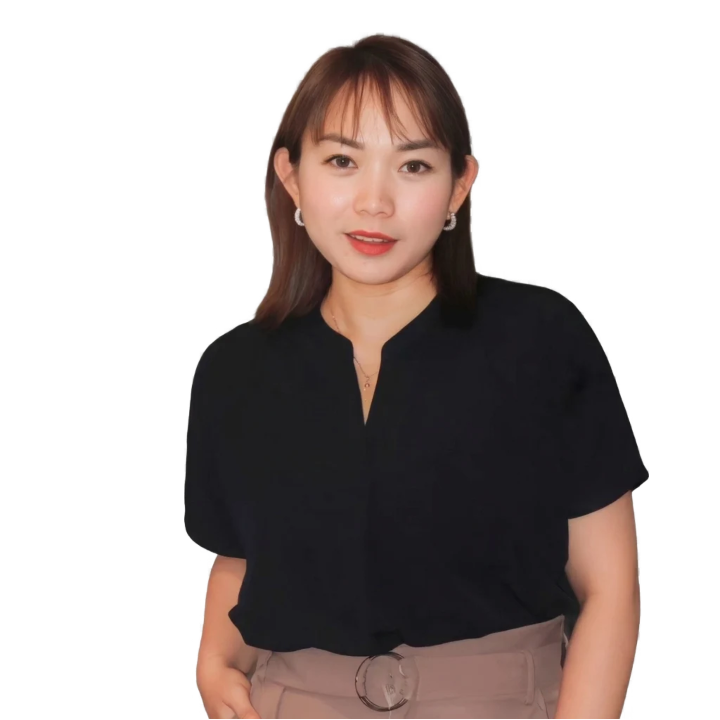
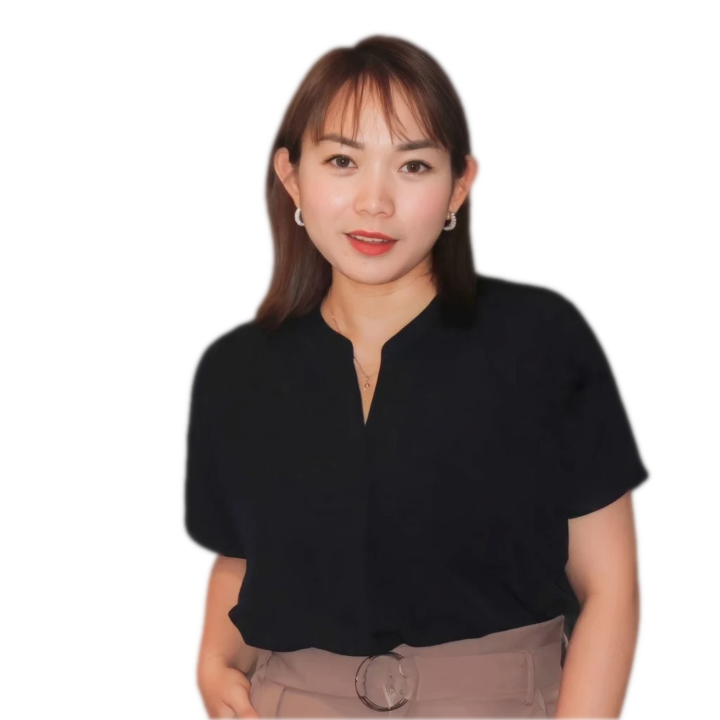
css edited

diff --git a/src/danny-style.css b/src/danny-style.css
@@ -22,6 +22,9 @@
   box-shadow: 5px 5px 10px rgba(0, 0, 0, 0.3);
 }
 
+/* SCROLL TO THE TOP - END*/
+/* SCROLL TO THE TOP - END*/
+/* SCROLL TO THE TOP - END*/
 
 /* MEDIUM - MEDIA QUERY START */
 /* MEDIUM - MEDIA QUERY START */

diff --git a/src/components/template.jsx b/src/components/template.jsx
@@ -1,6 +1,6 @@
 import React from 'react';
 
-export const ChangeThisNameHere = () => {
+export const ChangeThisNameThere = () => {
   return (
     
   )